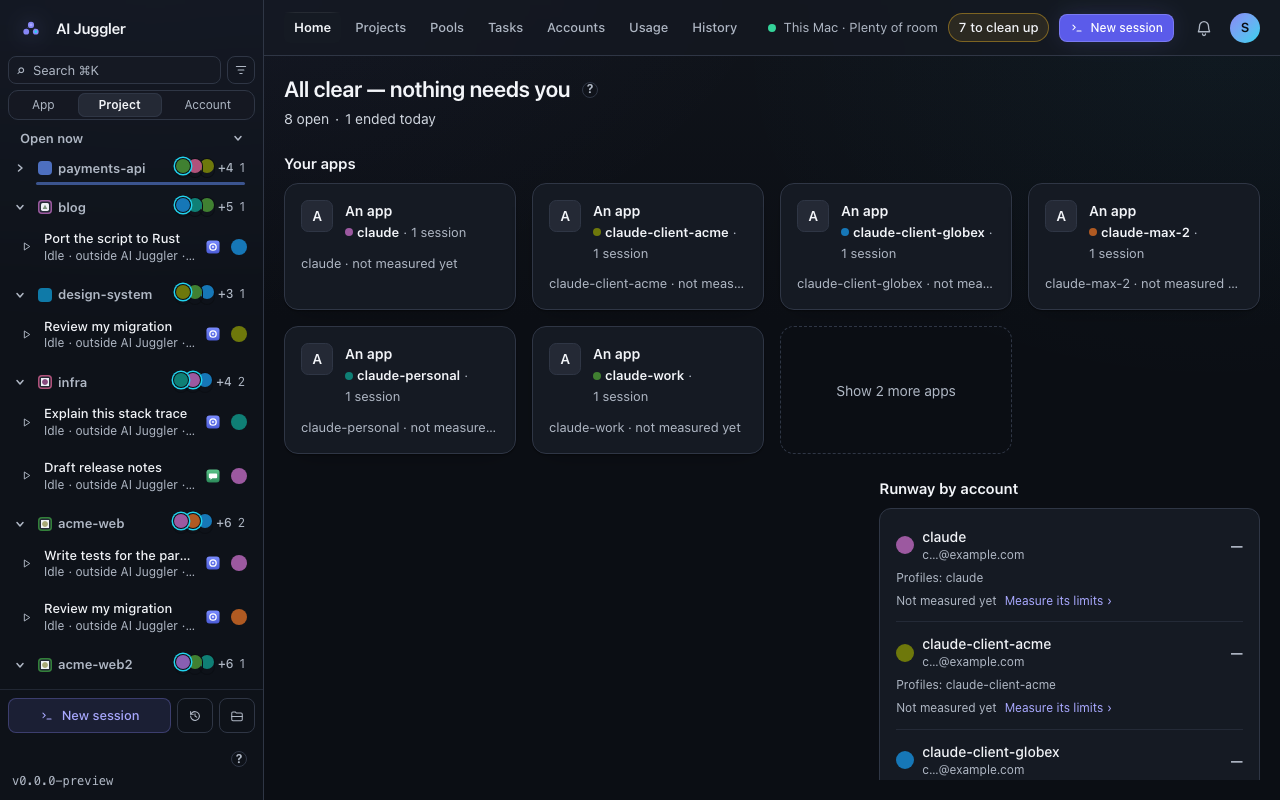
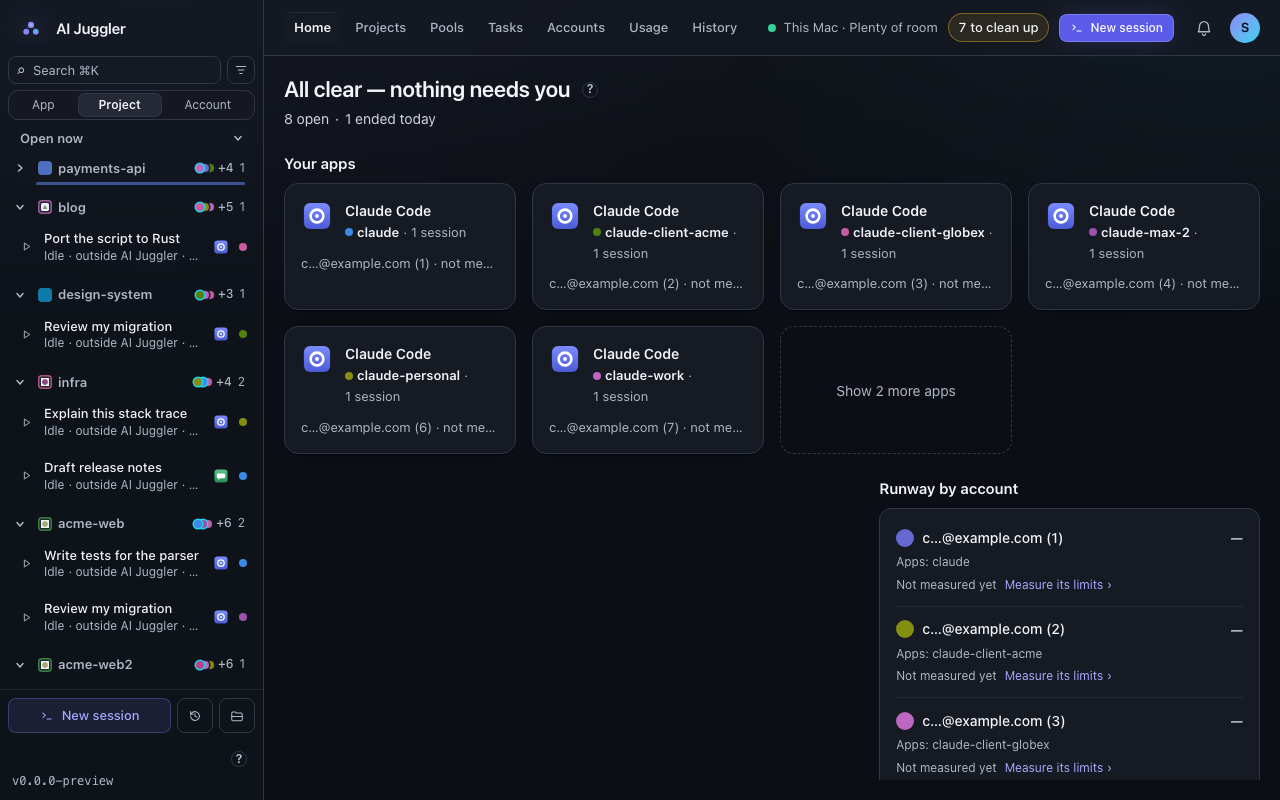
test(e31): the specs follow E3103's rows and the Apps' colour
Home's recent rows carry a session's id too, so the inspector and pools
specs click the rail's row; the rail's state word may say why a session
needs you (needWord); the marks gallery waits for the App stack, its
captures re-shot and the critique's words updated.

diff --git a/ui/tests/visual/regression.spec.ts b/ui/tests/visual/regression.spec.ts
@@ -538,8 +538,9 @@ test("status is never colour-only", async ({ page }) => {
   await expect(rail.getByTestId("place-board")).toBeVisible();
   const escape = (text: string) => text.replace(/[.*+?^${}()|[\]\\]/g, "\\$&");
   // Open now and Ended today: a dot in the state's colour, its word beside
-  // it in words (E21's vocabulary), the row's name leading with that word.
-  const vocabulary = /^(Asks you|Probably asks you|Working|Idle|Done, review it|Ended)$/;
+  // it in words (E21's vocabulary, or why it needs you: needWord, AJ-E2104
+  // Req.3), the row's name leading with that word.
+  const vocabulary = /^(Asks you|Probably asks you|Working|Idle|Done, review it|Ended|Limit reached|Stopped with an error|Probably stuck)$/;
   // Every session drawn first: the rail's Needs you fills in from the
   // backend's one count (F2) after the first paint, and a row list read
   // before that changes under the checks below.

diff --git a/ui/tests/visual/capture.spec.ts b/ui/tests/visual/capture.spec.ts
@@ -463,7 +463,8 @@ test("inspector — Session Overview ended stamp", async ({ page }) => {
   await seedInspectorPage(page, { width: 1440, height: 900 });
   await expectRail(page); // D-25: the list, or its icon column when narrow
   // An ended session (sess-7 stopped): its overview carries the stamp.
-  await page.locator('[data-instance-id="sess-7"]').click();
+  // The rail's row (Home's recent rows carry the session's id too, AJ-E3103).
+  await page.getByTestId("rail").locator('[data-instance-id="sess-7"]').click();
   await expect(page.getByTestId("session-ended-stamp")).toContainText("Ended");
   await page.screenshot({ path: resolve(GALLERY, "07-inspector-content/session-overview.png") });
 });

diff --git a/ui/tests/visual/pools-gallery.spec.ts b/ui/tests/visual/pools-gallery.spec.ts
@@ -98,7 +98,7 @@ for (const theme of ["dark", "light"] as const) {
 
   test(`a session's Move to pool — ${theme}`, async ({ page }) => {
     await open(page, theme);
-    await page.locator('[data-instance-id="sess-live-1"]').click({ button: "right" });
+    await page.getByTestId("rail").locator('[data-instance-id="sess-live-1"]').click({ button: "right" });
     await page.getByRole("menuitem", { name: "Move to pool…" }).click();
     const sheet = page.getByTestId("pool-move-sheet");
     await expect(sheet.getByTestId("pool-move-choice")).toHaveCount(3);

diff --git a/ui/tests/visual/marks-gallery.spec.ts b/ui/tests/visual/marks-gallery.spec.ts
@@ -63,7 +63,7 @@ for (const theme of ["dark", "light"] as const) {
     await projectLens(page);
     const rail = page.getByTestId("rail");
     await expect(rail.getByTestId("rail-project").first().getByTestId("mark-project")).toBeVisible();
-    await expect(rail.getByTestId("account-stack").first()).toBeVisible();
+    await expect(rail.getByTestId("app-stack").first()).toBeVisible();
     await rail.getByTestId("rail-fold").first().click();
     await expect(rail.getByTestId("rail-folded-stripe")).toHaveCount(1);
     await shoot(page, "rail-folded", theme);

diff --git a/docs/qa/evidence/_gallery/80-marks/critique.md b/docs/qa/evidence/_gallery/80-marks/critique.md
@@ -1,4 +1,4 @@
-<!-- captures: 75e5dfed4621 -->
+<!-- captures: 52b304585fe2 -->
 # 80-marks: telling sixteen projects apart
 
 Design critique (D-57, AJ-E2814) against the reference screens: the row menus (77-menus), the rail's order menu, Usage and Processes. The baseline note says what changed on purpose; this says whether it is good.
@@ -35,11 +35,11 @@ Design critique (D-57, AJ-E2814) against the reference screens: the row menus (7
 
 | Capture | What is on it | What changed in 0.3 |
 |---|---|---|
-| rail-folded-1280x800 | The replica's rail: marks, account stacks and a folded project as a stripe in its colour. | The 0.3 header and grouping switch. |
+| rail-folded-1280x800 | The replica's rail: marks, App stacks and a folded project as a stripe in its colour. | The 0.3 header and grouping switch. |
 | history-1280x800 | History's rows with each row's tool, project and account. | The 0.3 header. |
 | sheet-1280x800, sheet-emoji-1280x800 | The mark sheet, then an emoji chosen on its colour. | × to close (AJ-E2813). |
 | rail-emoji-1280x800 | The rail with the emoji mark. | The 0.3 header. |
 
 ## 0.3.2
 
-The marks themselves are unchanged and still easy to tell apart: in rail-emoji and rail-folded each project's coloured square (or the rocket emoji on payments-api) sits in the same column with the account-dot stack to its right, the folded payments-api row keeps its coloured stripe, and History's rows keep project and account marks in fixed columns with the dates right-aligned. The mark sheet (sheet, sheet-emoji) sits a step above the dimmed page in dark and as a white sheet with a shadow in light; Save is the solid violet primary, the chosen colour has a clear ring, and the emoji field shows its focus ring. After the design fixes the dark accent is lighter: it shows on the logo mark, New session, History's focused search ring, and the emoji sheet's selected "An emoji" radio and field ring, all a touch brighter on the dark surfaces. The home behind rail-emoji and rail-folded has cards that lift off the canvas, but in light the dashed "Show 2 more apps" card still almost disappears on the grey canvas, and every Project-rail row cuts its meta at "Idle · outside AI Juggler ·…". The second pass touched only history's rail ages, which after its last fix stay whole beside short projects ("blog · 1 min ago", "infra · 1 min ago"); nothing else on these screens changed.
+The marks themselves are unchanged and still easy to tell apart: in rail-emoji and rail-folded each project's coloured square (or the rocket emoji on payments-api) sits in the same column with the stack of its Apps' coloured marks to its right (0.4: colour is the Apps', SPEC §9.3), the folded payments-api row keeps its coloured stripe, and History's rows keep project and account marks in fixed columns with the dates right-aligned. The mark sheet (sheet, sheet-emoji) sits a step above the dimmed page in dark and as a white sheet with a shadow in light; Save is the solid violet primary, the chosen colour has a clear ring, and the emoji field shows its focus ring. After the design fixes the dark accent is lighter: it shows on the logo mark, New session, History's focused search ring, and the emoji sheet's selected "An emoji" radio and field ring, all a touch brighter on the dark surfaces. The home behind rail-emoji and rail-folded has cards that lift off the canvas, but in light the dashed "Show 2 more apps" card still almost disappears on the grey canvas, and every Project-rail row cuts its meta at "Idle · outside AI Juggler ·…". The second pass touched only history's rail ages, which after its last fix stay whole beside short projects ("blog · 1 min ago", "infra · 1 min ago"); nothing else on these screens changed.
